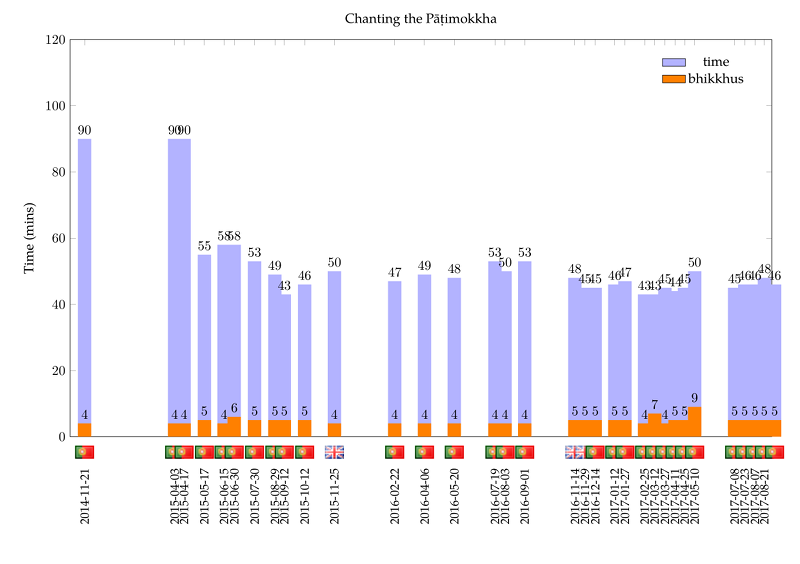
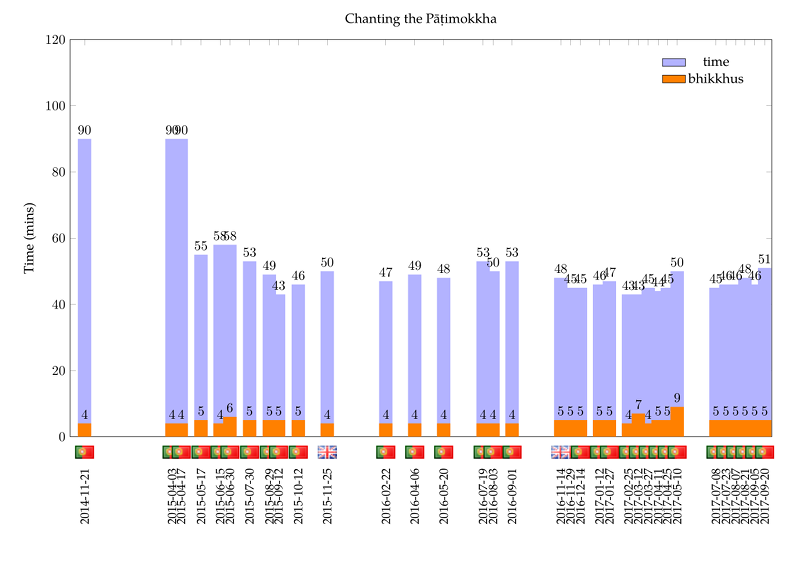
upd

Changed region(s): [[0.4688, 0.422, 1.0, 0.9344], [0.1875, 0.2713, 0.4375, 0.9344], [0.1875, 0.211, 0.25, 0.2411]]

diff --git a/src/patimokkha-chanting-chart.tex b/src/patimokkha-chanting-chart.tex
@@ -54,7 +54,7 @@
     ylabel=Time (mins),
     xtick=data,
     xmin=2014-11-20,
-    xmax=2017-09-01,
+    xmax=2017-10-01,
     enlarge x limits={rel=0.02,lower},
     xticklabel style={yshift=-20pt,rotate=90,anchor=east,font=\small},
     xticklabel={\year-\month-\day},
@@ -116,6 +116,7 @@
   \node [anchor=south, yshift=-20pt] at (axis cs:2017-08-07,0) {\includegraphics[width=5mm]{pt}};
   \node [anchor=south, yshift=-20pt] at (axis cs:2017-08-21,0) {\includegraphics[width=5mm]{pt}};
   \node [anchor=south, yshift=-20pt] at (axis cs:2017-09-05,0) {\includegraphics[width=5mm]{pt}};
+  \node [anchor=south, yshift=-20pt] at (axis cs:2017-09-20,0) {\includegraphics[width=5mm]{pt}};
 
 \end{axis}
 \end{tikzpicture}
